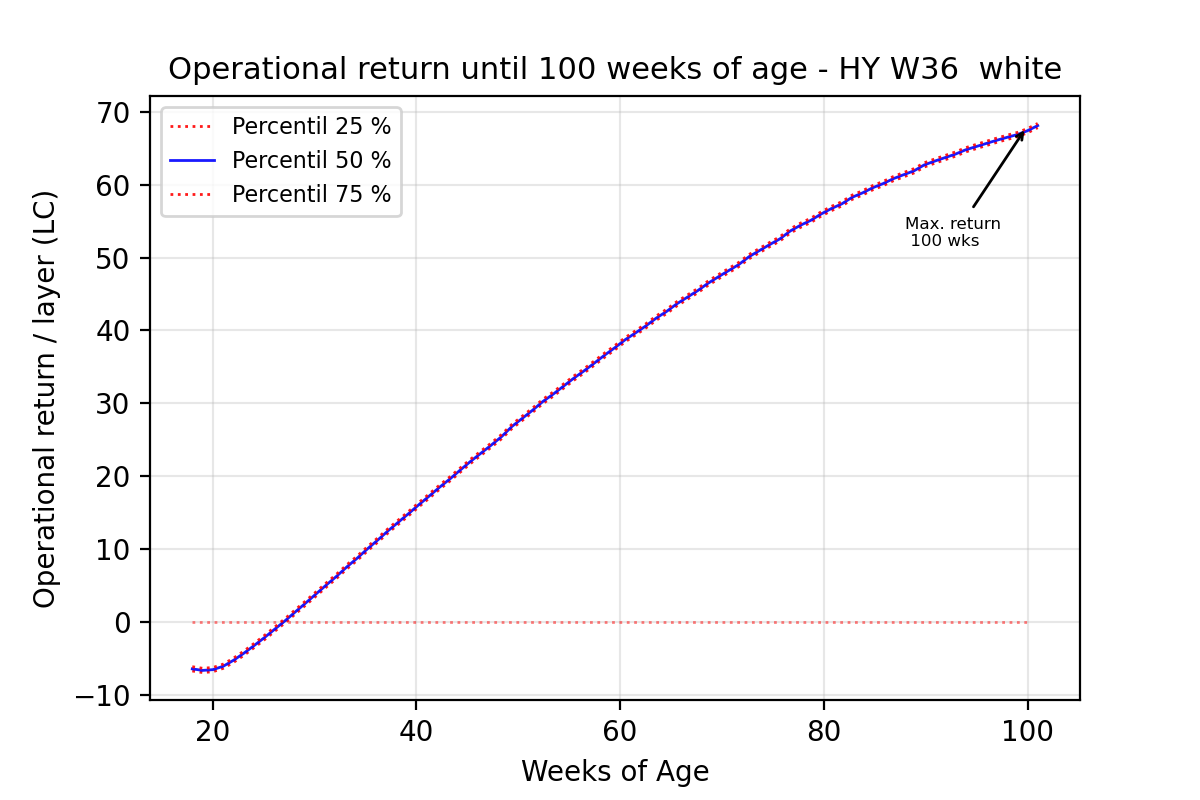
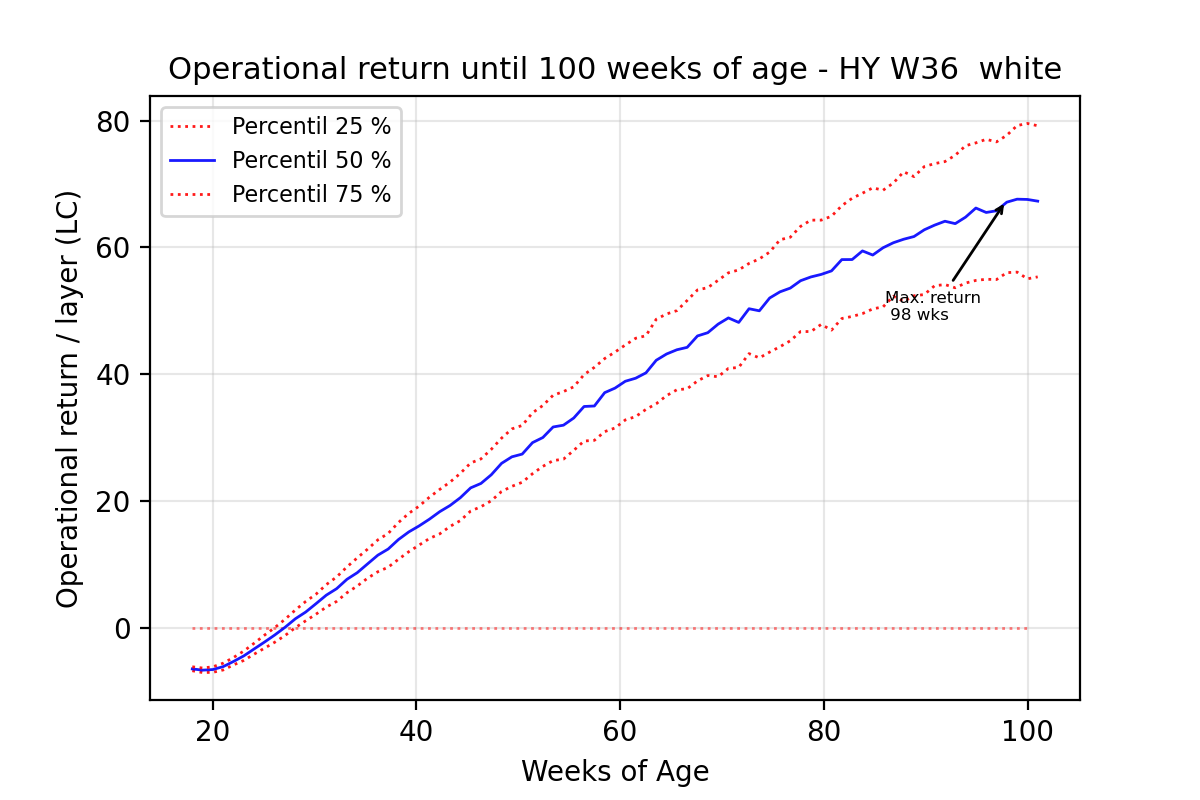
added normal distribution (n) for the input parameters

diff --git a/layer_performance_py.py b/layer_performance_py.py
@@ -28,6 +28,13 @@ def rnd_same(min, mp, max, distr) :  # generate random numbers and create a np. 
         return np.random.uniform(min, max, (production_wks,n_repl))
     if distr.lower() == 'f' : # fixed value
         return np.full((production_wks,n_repl),mp, dtype=float )
+    if distr.lower() == 'b' : # beta pert
+        #alpha = (4 * mp + max - 5 * min) / (max - min)
+        #beta = (5 * max - min - 4 *mp) / (max - min)
+        #return (min + np.random.beta(min, max) * (max-min), (production_wks,n_repl))
+        pass
+    if  distr.lower() == 'n' : # normal distribution - std desv is estimated by dividing (max - min) / 4
+        return np.random.normal(mp, (max-min)/4,(production_wks,n_repl))
     else :
         winsound.Beep(sd1[0],sd1[1])
         winsound.Beep(sd2[0],sd2[1])
@@ -209,9 +216,6 @@ feed_rnd_cost_g_1 = rnd_same(feed_cost_ton_1[0]/1000000,
                                feed_cost_ton_1[1]/1000000,
                                feed_cost_ton_1[3])  # generate random numbers - per GRAMS od Feed
 
-#print(feed_rnd_cost_g_1)
-
-
 # aditive cost 
 verif_entry(aditiv_cost_ton_1[0],aditiv_cost_ton_1[1],aditiv_cost_ton_1[2],aditiv_cost_ton_1[3]) # verify entry
 aditiv_rnd_cost_g_1 = rnd_same(aditiv_cost_ton_1[0]/1000000,
@@ -337,17 +341,12 @@ loop = False
 ############## if affected by correction (diseases, etc)
 # mortality
 
-
 for i in range (affect_week_init - 18,  affect_week_final - 18) :
      loop = True
      
      mort_cum_week_1[i] = mort_cum_week_1[i]*(1-mort_affect_week_perc)
 
 # mortality
-     
-     
-
-
 # pullet costs
 
 

diff --git a/parameters.py b/parameters.py
@@ -17,7 +17,7 @@ genetic1 = 1  # 1 - Hyline W36 - White / 2 - to be defined
 
 n_layers = 50000 # to be used to calculated birds / cost
 prod_week_analysis = 100   # usually 100 - define the production week for cost / earnings analysis - usually 100 wks (varies from 18 - 100)
-n_repl = 100000 # idealy at least 3000
+n_repl = 1000 # idealy at least 3000
 
 wks_per_month = 4.348 # avg weeks in a month
 wks_per_year = 52.1429 # avg weeks per year
@@ -50,7 +50,7 @@ pullet_cost_1  = [5, 7, 6, 't']  # min, max., mp, distribution
 
 
 # feed costs
-feed_cost_ton_1 = [800, 1000, 900, 'f'] # min, max., mp, distribution
+feed_cost_ton_1 = [800, 2000, 900, 'n'] # min, max., mp, distribution
 
 # aditive cost 
 aditiv_cost_ton_1 = [9, 15, 10, 'f']
